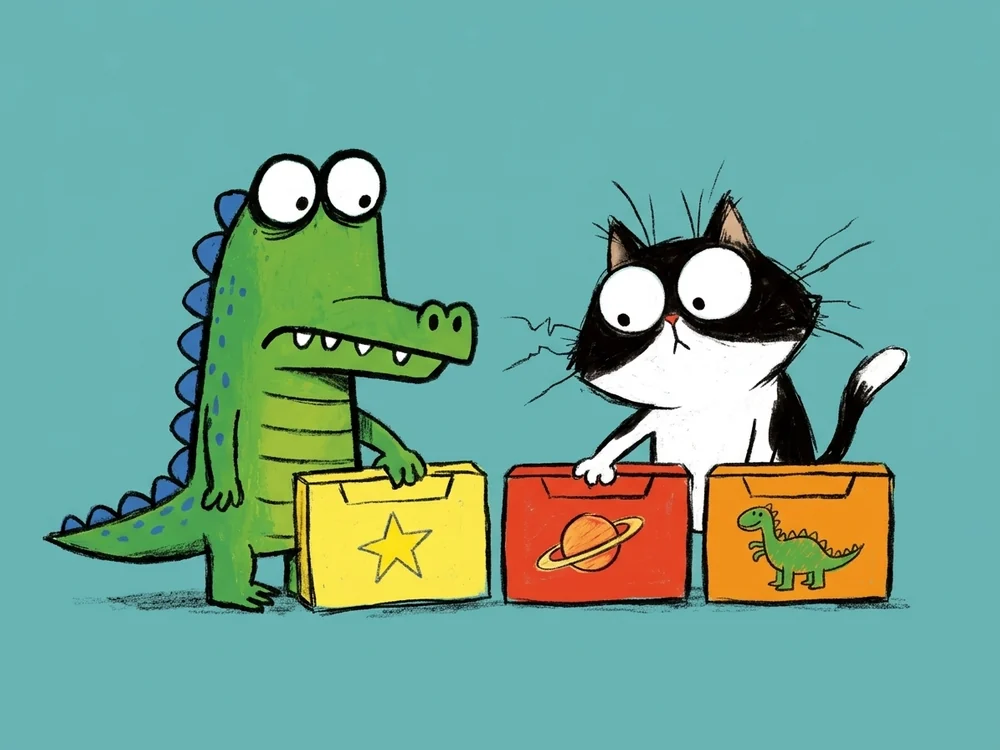
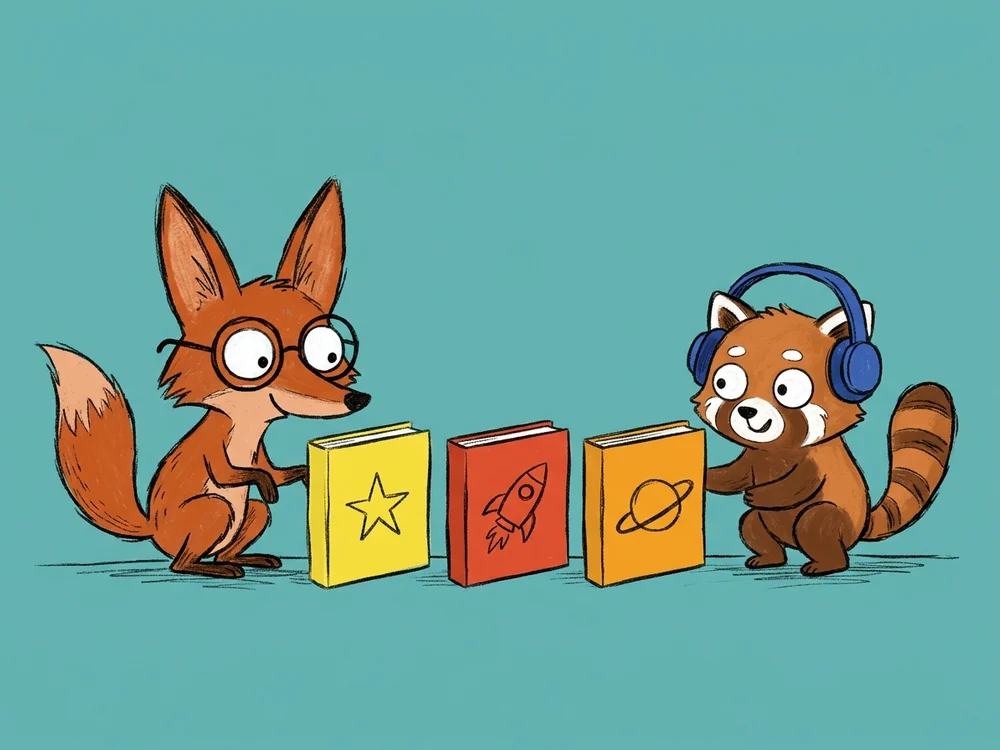
feat(preview): replace /crayon mascots with 6 clean-room original Kippin characters

diff --git a/crayon/app.js b/crayon/app.js
@@ -28,7 +28,7 @@
         g3: 'Sạch quảng cáo',
         primaryCta: 'Bắt đầu miễn phí',
         imgAlt:
-          'Sáu nhân vật thú ngộ nghĩnh gồm cú, ếch, mèo, cá sấu, chó và bò vẽ nét sáp dầu trên các ô màu gouache rực rỡ',
+          'Sáu nhân vật thú Kippin vẽ nét sáp dầu gồm hà mã răng thỏ, rái cá quàng khăn, gấu trúc đỏ đeo tai nghe, cáo tai to đeo kính, gấu lười ngái ngủ và chim cánh cụt chỏm tóc dựng trên các ô màu gouache',
       },
       what: {
         title: 'Kippin là gì?',
@@ -51,17 +51,17 @@
         r1Body:
           'Video từ cả ba nguồn được gom vào thư viện riêng có ảnh bìa, chia rõ từng bộ theo Mùa và Tập để tự mở bài kế tiếp và nhớ vị trí đang xem dở. Ba mẹ cũng có thể chia sẻ riêng từng thư mục cho người thân hoặc gia đình bạn bè qua liên kết.',
         r1Alt:
-          'Minh họa cá sấu xanh và mèo nhị thể xếp gọn các cuốn băng tập phim màu sắc theo thứ tự trên nền xanh ngọc',
+          'Minh họa cáo tai to đeo kính tròn và gấu trúc đỏ đeo tai nghe xếp gọn các hộp tập phim màu sắc theo thứ tự trên nền xanh ngọc',
         r2Title: 'Ứng dụng độc lập trên Smart TV để con tự mở ở nhà',
         r2Body:
           'Cài trực tiếp trên Android TV, Google TV và iPad để con ngồi xa chọn tập bằng điều khiển. Không dùng chung ứng dụng YouTube người lớn, không cần ông bà mở máy tính hộ.',
         r2Alt:
-          'Minh họa chú chó tai cụp và ếch xanh ngồi trên ghế sofa bấm điều khiển mở chương trình tên lửa vũ trụ trên Smart TV màn hình phẳng',
+          'Minh họa chim cánh cụt chỏm tóc dựng và rái cá quàng khăn sọc ngồi ghế sofa bấm điều khiển mở chương trình vũ trụ trên Smart TV màn hình phẳng',
         r3Title: 'Tách hồ sơ theo độ tuổi và xem nhật ký từ xa',
         r3Body:
           'Mỗi anh chị em có hồ sơ riêng, chỉ hiển thị đúng kênh và bộ video được gán. Phụ huynh khóa cài đặt bằng mã PIN và xem lịch sử từng tập con đã mở ngay trên điện thoại.',
         r3Alt:
-          'Minh họa bò sữa, mèo nhị thể và cú nhỏ ở các lứa tuổi khác nhau cầm bảng hồ sơ riêng trên nền vàng chanh',
+          'Minh họa hà mã răng thỏ, cáo tai to đeo kính và gấu lười nhỏ ở các lứa tuổi khác nhau cầm thẻ hồ sơ riêng trên nền vàng chanh',
       },
       inside: {
         heading: 'Bên trong ứng dụng Kippin',
@@ -212,7 +212,7 @@
         g3: '100% ad-free',
         primaryCta: 'Start for Free',
         imgAlt:
-          'Six quirky oil-pastel animal mascots—owl, frog, tuxedo cat, crocodile, dog, and cow—on bold matte gouache color blocks',
+          'Six original Kippin oil-pastel animal characters—buck-toothed hippo, striped-scarf sea otter, headphone red panda, glasses fox, sleepy sloth, and tufted penguin—on bold matte gouache color blocks',
       },
       what: {
         title: 'What is Kippin?',
@@ -235,17 +235,17 @@
         r1Body:
           'Videos from all three sources live in one illustrated library sorted by Season and Episode—auto-playing the next video in order and saving watch progress. Parents can also privately share individual folders with relatives or family friends via a link.',
         r1Alt:
-          'Hand-drawn green crocodile and tuxedo cat lining up numbered star, planet, and dinosaur episode cassettes on an aqua-teal background',
+          'Hand-drawn big-eared fox in round glasses and red panda in headphones lining up star, rocket, and planet episode boxes on an aqua-teal background',
         r2Title: 'Standalone Smart TV app kids can open on their own',
         r2Body:
           'Install directly on Android TV, Google TV, and iPad so kids sit back and pick episodes by remote—without opening the adult YouTube app or needing grandparents to set up a computer.',
         r2Alt:
-          'Hand-drawn lanky dog and winking frog sitting on a blue sofa pointing a remote at a modern flat-panel Smart TV playing a rocket show',
+          'Hand-drawn tufted penguin and striped-scarf sea otter sitting on a blue sofa pointing a remote at a modern flat-panel Smart TV playing a space rocket show',
         r3Title: 'Age-matched profiles and remote watch history',
         r3Body:
           'Each sibling gets a separate profile showing only their assigned channels and video sets. Parents lock settings with a PIN and check watched episodes right from their phone.',
         r3Alt:
-          'Hand-drawn cow, tuxedo cat, and tiny owl holding their own self-portrait profile cards against a canary-yellow background',
+          'Hand-drawn buck-toothed hippo, big-eared fox with glasses, and tiny sleepy sloth holding their own self-portrait profile cards against a canary-yellow background',
       },
       inside: {
         heading: 'Inside the Kippin app',

diff --git a/crayon/index.html b/crayon/index.html
@@ -182,24 +182,24 @@
         </div>
 
         <div class="hero-mosaic-wrap">
-          <div class="hero-mosaic" role="img" aria-label="Sáu nhân vật thú ngộ nghĩnh gồm cú, ếch, mèo, cá sấu, chó và bò vẽ nét sáp dầu trên các ô màu gouache rực rỡ" data-i18n-aria="hero.imgAlt">
+          <div class="hero-mosaic" role="img" aria-label="Sáu nhân vật thú Kippin vẽ nét sáp dầu gồm hà mã răng thỏ, rái cá quàng khăn, gấu trúc đỏ đeo tai nghe, cáo tai to đeo kính, gấu lười ngái ngủ và chim cánh cụt chỏm tóc dựng trên các ô màu gouache" data-i18n-aria="hero.imgAlt">
             <div class="mosaic-cell cell-teal">
-              <img src="assets/hero-6-owl.webp" alt="" width="640" height="640" decoding="async" />
+              <img src="assets/hero-6-hippo.webp" alt="" width="640" height="640" decoding="async" />
             </div>
             <div class="mosaic-cell cell-cobalt">
-              <img src="assets/hero-3-frog.webp" alt="" width="640" height="640" fetchpriority="high" decoding="async" />
+              <img src="assets/hero-3-otter.webp" alt="" width="640" height="640" fetchpriority="high" decoding="async" />
             </div>
             <div class="mosaic-cell cell-orange">
-              <img src="assets/hero-2-cat.webp" alt="" width="640" height="640" decoding="async" />
+              <img src="assets/hero-2-redpanda.webp" alt="" width="640" height="640" decoding="async" />
             </div>
             <div class="mosaic-cell cell-yellow">
-              <img src="assets/hero-1-croc.webp" alt="" width="640" height="640" fetchpriority="high" decoding="async" />
+              <img src="assets/hero-1-fox.webp" alt="" width="640" height="640" fetchpriority="high" decoding="async" />
             </div>
             <div class="mosaic-cell cell-vermilion">
-              <img src="assets/hero-4-dog.webp" alt="" width="640" height="640" decoding="async" />
+              <img src="assets/hero-4-sloth.webp" alt="" width="640" height="640" decoding="async" />
             </div>
             <div class="mosaic-cell cell-cerulean">
-              <img src="assets/hero-5-cow.webp" alt="" width="640" height="640" decoding="async" />
+              <img src="assets/hero-5-penguin.webp" alt="" width="640" height="640" decoding="async" />
             </div>
           </div>
         </div>
@@ -291,7 +291,7 @@
             <div class="crayon-frame tilt-left frame-teal">
               <img
                 src="assets/feat-1-series.webp"
-                alt="Minh họa cá sấu xanh và mèo nhị thể xếp gọn các cuốn băng tập phim màu sắc theo thứ tự trên nền xanh ngọc"
+                alt="Minh họa cáo tai to đeo kính tròn và gấu trúc đỏ đeo tai nghe xếp gọn các hộp tập phim màu sắc theo thứ tự trên nền xanh ngọc"
                 data-i18n-alt="features.r1Alt"
                 width="1000"
                 height="750"
@@ -315,7 +315,7 @@
             <div class="crayon-frame tilt-right frame-orange">
               <img
                 src="assets/feat-2-smart-tv.webp"
-                alt="Minh họa chú chó tai cụp và ếch xanh ngồi trên ghế sofa bấm điều khiển mở chương trình tên lửa vũ trụ trên Smart TV màn hình phẳng"
+                alt="Minh họa chim cánh cụt chỏm tóc dựng và rái cá quàng khăn sọc ngồi ghế sofa bấm điều khiển mở chương trình vũ trụ trên Smart TV màn hình phẳng"
                 data-i18n-alt="features.r2Alt"
                 width="1000"
                 height="750"
@@ -339,7 +339,7 @@
             <div class="crayon-frame tilt-left frame-yellow">
               <img
                 src="assets/feat-3-profiles.webp"
-                alt="Minh họa bò sữa, mèo nhị thể và cú nhỏ ở các lứa tuổi khác nhau cầm bảng hồ sơ riêng trên nền vàng chanh"
+                alt="Minh họa hà mã răng thỏ, cáo tai to đeo kính và gấu lười nhỏ ở các lứa tuổi khác nhau cầm thẻ hồ sơ riêng trên nền vàng chanh"
                 data-i18n-alt="features.r3Alt"
                 width="1000"
                 height="750"
@@ -735,7 +735,7 @@
     <section class="closing-strip">
       <div class="container closing-wrap">
         <div class="closing-stamp closing-stamp-left" aria-hidden="true">
-          <img src="assets/hero-3-frog.webp" alt="" width="640" height="640" loading="lazy" decoding="async" />
+          <img src="assets/hero-3-otter.webp" alt="" width="640" height="640" loading="lazy" decoding="async" />
         </div>
 
         <div class="closing-card">
@@ -751,7 +751,7 @@
         </div>
 
         <div class="closing-stamp closing-stamp-right" aria-hidden="true">
-          <img src="assets/hero-5-cow.webp" alt="" width="640" height="640" loading="lazy" decoding="async" />
+          <img src="assets/hero-5-penguin.webp" alt="" width="640" height="640" loading="lazy" decoding="async" />
         </div>
       </div>
     </section>
